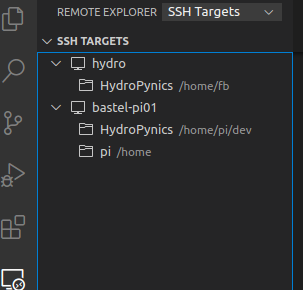
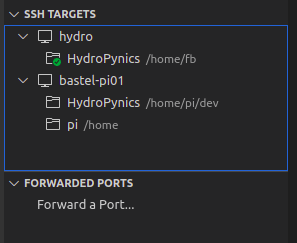
Extended ssh extension doc

diff --git a/README.md b/README.md
@@ -15,6 +15,7 @@ A guide for useful extensions and configuration examples to unleash the power of
 - [6. Documentation](#6-documentation)
 - [7. Remote development](#7-remote-development)
   - [7.1. Remote SSH Extension](#71-remote-ssh-extension)
+  - [7.2. References](#72-references)
 - [8. Static analysis](#8-static-analysis)
 - [9. Code formatting & cleanup](#9-code-formatting--cleanup)
 - [10. Code Coverage](#10-code-coverage)
@@ -94,7 +95,14 @@ Some extensions can greatly enhance your documentation capabilities. See the [do
 
 If you are developing for remotely connected devices (e.g. RPi), the [Remote - SSH](https://marketplace.visualstudio.com/items?itemName=ms-vscode-remote.remote-ssh) extension saves a lot of time. It enables you to work with VS Code like you are used to work locally. The communication is done via SSH. So also autologin via certificates is possible.  
 
+Also a nice feature is the possibility to configure port forwarding if you are connected to the remote machine.
+
 ![SSH extension](images/ssh-ext.png)
+
+## 7.2. References
+
+- [Overview and getting started](https://code.visualstudio.com/docs/remote/ssh)
+- [Troubleshooting for Remote SSH Extension](https://code.visualstudio.com/docs/remote/troubleshooting)
 
 ---
 
